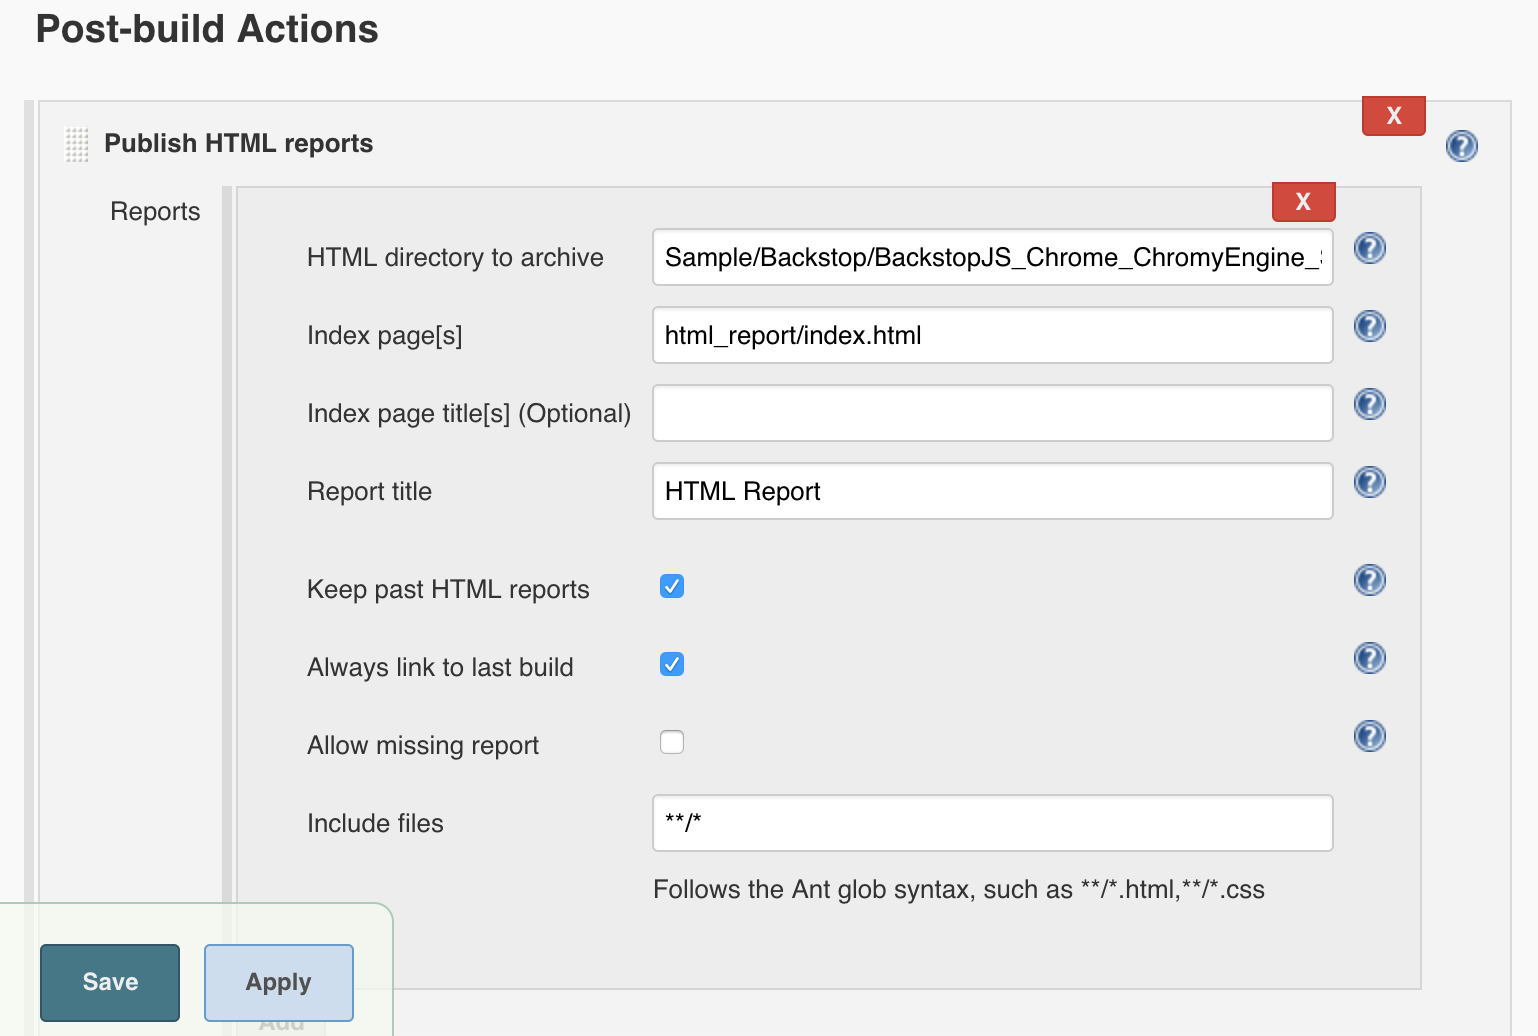
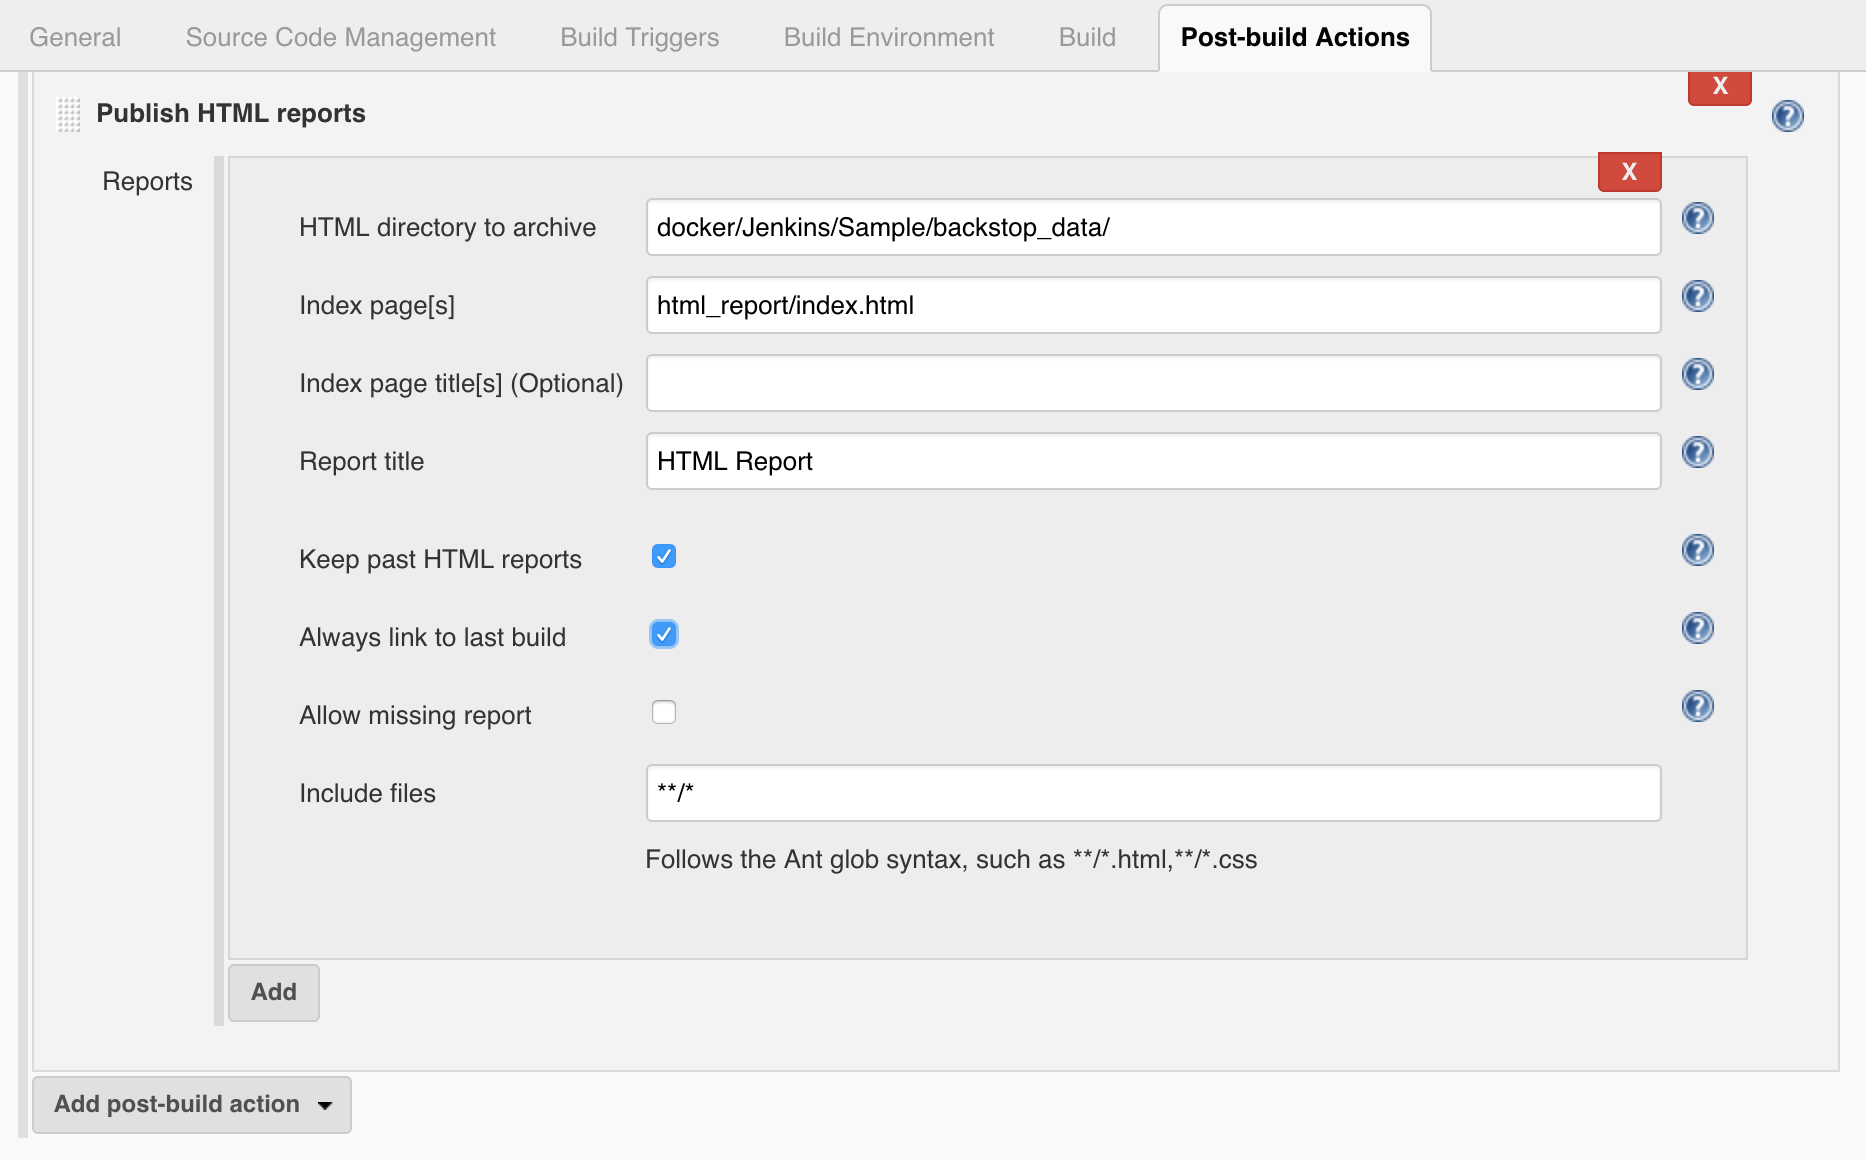
[Docs] Jenkins Guide

diff --git a/docker/Jenkins/README.md b/docker/Jenkins/README.md
@@ -114,24 +114,25 @@ For more info about DooD, we **HIGHLY** suggest to read [the blog](https://conta
      set +x
      sudo docker pull backstopjs/backstopjs:latest
      sudo docker run \
-         --workdir /src \
+         --workdir ${WORKSPACE} \
          --volumes-from jenkins_agent_1 \
          --rm \
          --shm-size 2048m \
          --name backstopjs \
+         --entrypoint=sh \
          backstopjs/backstopjs:latest \
-         /bin/bash -c "cd Sample/Backstop/BackstopJS_Chrome_ChromyEngine_SimulatePC_iPhone; backstop test"
+         -c "cd docker/Jenkins/Sample/; backstop test"
          
      # Debug Purpose: It will keep container there until job aborted
      # sudo docker run \
-     #    --workdir /src \
+     #    --workdir ${WORKSPACE} \
      #    --volumes-from jenkins_agent_1 \
      #    --rm \
      #    --shm-size 2048m \
      #    --name backstopjs \
      #    --entrypoint=sh \
      #    backstopjs/backstopjs:latest \
-     #    -c "cp -R ${WORKSPACE} /src; while true; do sleep 1; done"
+     #    -c "cd docker/Jenkins/Sample/; while true; do sleep 1; done"
      ```
    - Post-build Actions: 
      1) Add **Post build task** to delete the not exiting container
@@ -143,7 +144,7 @@ For more info about DooD, we **HIGHLY** suggest to read [the blog](https://conta
         ![Screenshot](Attachments/Jenkins_PostBuildActions_DeleteContainer.png)
         
      2) Add **Publish HTML reports**, and set as following.
-        Note: The **HTML directory to archive** is: Sample/Backstop/BackstopJS_Chrome_ChromyEngine_SimulatePC_iPhone/backstop_data/ 
+        Note: The **HTML directory to archive** is: docker/Jenkins/Sample/backstop_data/ 
         ![Screenshot](Attachments/Jenkins_PostBuildActions_PublishHTML.png)
      
 3. Run build & Get the report
